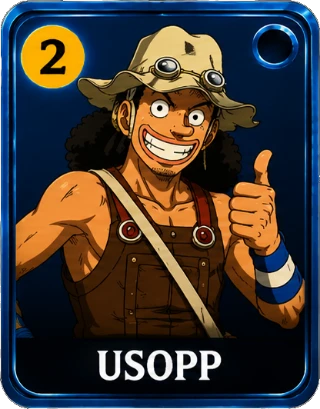
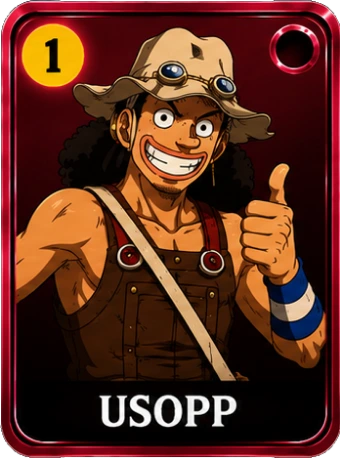
Cartas nuevas de los Mugiwara con el coste correcto
Las anteriores traian un coste inventado (Zoro ponia 2 y cuesta 4), asi que la
tienda pintaba encima una chapa dorada con el coste real. Las nuevas ya vienen
con el coste del juego y con el marco coloreado por coste, asi que se quita esa
chapa y la carta se ve tal cual.

Recortadas todas al mismo tamano (348x469, proporcion 0,742) y exportadas a
WebP: 200 KB las cinco. Se reajustan la proporcion de la tarjeta en la tienda y
el encuadre de la cara del banquillo y de la wiki al dibujo nuevo.

diff --git a/public/css/style.css b/public/css/style.css
@@ -278,7 +278,7 @@ body.in-game { height: min(var(--app-height, 100svh), 100svh); }
 
 .unit-card {
   height: 100%;
-  aspect-ratio: 406 / 532;
+  aspect-ratio: 348 / 469;
   flex: 0 1 auto;
   min-width: 0;
   border-radius: 12px;
@@ -300,9 +300,9 @@ body.in-game { height: min(var(--app-height, 100svh), 100svh); }
 .unit-card.captain, .bench-unit.captain { border-color: var(--gold); box-shadow: 0 0 0 2px rgba(255,210,63,.6), 0 4px 10px rgba(0,0,0,.3); }
 .captain-badge { position: absolute; top: 1px; right: 3px; font-size: 15px; filter: drop-shadow(0 1px 2px rgba(0,0,0,.6)); }
 
-/* ---------- Cartas ilustradas (public/img/cards/<id>.png) ---------- */
-/* El dibujo ya trae marco, nombre y un numero de coste que es solo decorativo:
-   quitamos nuestro marco y pintamos el coste real justo encima del impreso. */
+/* ---------- Cartas ilustradas (public/img/cards/<id>.webp) ---------- */
+/* El dibujo ya trae marco, nombre y el coste de la ficha, asi que la tarjeta
+   se queda solo con la imagen: sin marco ni chapa de coste encima. */
 .unit-card.has-art, .bench-unit.has-art {
   background: none;
   border: 0;
@@ -317,14 +317,6 @@ body.in-game { height: min(var(--app-height, 100svh), 100svh); }
   object-fit: contain;
   display: block;
   pointer-events: none;
-}
-.unit-card.has-art .uc-cost {
-  left: 5.2%; top: 4.6%;
-  width: 22.2%; height: 17%;
-  border-radius: 50%;
-  font-size: clamp(9px, 3.4vw, 14px);
-  border: 2px solid rgba(90,52,0,.85);
-  box-shadow: 0 1px 3px rgba(0,0,0,.6);
 }
 .unit-card.has-art.captain { box-shadow: none; }
 .unit-card.has-art.captain .uc-art { filter: drop-shadow(0 0 4px rgba(255,210,63,.85)); }
@@ -351,9 +343,18 @@ body.in-game { height: min(var(--app-height, 100svh), 100svh); }
 
 .unit-avatar-img { padding: 0; overflow: hidden; background: #0e2140; }
 .unit-avatar-img img { width: 100%; height: 100%; object-fit: cover; border-radius: 50%; pointer-events: none; }
-/* Avatar sacado de la carta ilustrada: acercamos a la cara */
-.unit-avatar-img.uc-cara { background: #1a0f08; }
-.unit-avatar-img.uc-cara img { object-position: 50% 6%; transform: scale(2); border-radius: 0; }
+/* Avatar sacado de la carta ilustrada: mismo encuadre de cara que en el
+   banquillo (deja fuera el marco, el nombre y la chapa del coste). */
+.unit-avatar-img.uc-cara { background: #1a0f08; position: relative; }
+.unit-avatar-img.uc-cara img {
+  position: absolute;
+  left: -52.5%;
+  top: -18%;
+  width: 205%;
+  height: auto;
+  object-fit: unset;
+  border-radius: 0;
+}
 
 /* Colores por tripulacion (combos) */
 .uc-crew-strawhat { background: linear-gradient(160deg, #ff7a54, #b8321a); }
@@ -389,9 +390,9 @@ body.in-game { height: min(var(--app-height, 100svh), 100svh); }
    (que es decorativo y no coincide con el coste real del juego). */
 .bench-unit.has-art .uc-art {
   position: absolute;
-  left: -57.5%;
-  top: -33%;
-  width: 215%;
+  left: -52.5%;
+  top: -18%;
+  width: 205%;
   height: auto;
   object-fit: unset;
 }

diff --git a/public/js/game.js b/public/js/game.js
@@ -523,14 +523,14 @@ import { getThumb, getThumbSync } from './thumbs.js';
   }
 
   // Contenido de una tarjeta: si el personaje tiene carta ilustrada la usamos
-  // tal cual y solo pintamos encima nuestro coste (el impreso en el dibujo es
-  // el del arte, no el del juego). Si no, la tarjeta generada de siempre.
+  // tal cual (el dibujo ya trae marco, nombre y coste). Si no, la tarjeta
+  // generada de siempre.
   function fillCard(card, p, opciones = {}) {
     if (p.card) {
       card.classList.add('has-art');
       const img = el('img', 'uc-art');
       img.src = `/${p.card}`;
-      img.alt = p.name;
+      img.alt = `${p.name} (${p.cost} de oro)`;
       img.draggable = false;
       img.onerror = () => {
         card.classList.remove('has-art');
@@ -538,7 +538,6 @@ import { getThumb, getThumbSync } from './thumbs.js';
         rellenoGenerado(card, p, opciones);
       };
       card.appendChild(img);
-      if (opciones.coste) card.appendChild(el('div', 'uc-cost', p.cost));
       return;
     }
     rellenoGenerado(card, p, opciones);

diff --git a/README.md b/README.md
@@ -201,18 +201,21 @@ descargan al abrirla.
 ### Cartas ilustradas (lo que se ve en la tienda)
 
 Lo que más manda: si existe `public/img/cards/<id>.webp` (o `.png`), la tienda
-usa **esa carta entera** —marco, ilustración y nombre incluidos—, el banquillo
-se queda con un recorte de la cara y la Wiki con un avatar redondo. Solo hay que
-dejar el archivo en la carpeta con el id del personaje en minúsculas
-(`luffy.webp`, `zoro.webp`…): el servidor mira la carpeta y lo manda en
-`/api/units`, sin tocar código.
+usa **esa carta entera** —marco, ilustración, nombre y coste incluidos—, el
+banquillo se queda con un recorte de la cara y la Wiki con un avatar redondo.
+Solo hay que dejar el archivo en la carpeta con el id del personaje en
+minúsculas (`luffy.webp`, `zoro.webp`…): el servidor mira la carpeta y lo manda
+en `/api/units`, sin tocar código.
 
-El número de coste que viene impreso en el dibujo es decorativo: encima se pinta
-el **coste real** del juego, en el mismo círculo dorado.
+Ojo: **el coste que se ve en la tienda es el impreso en el dibujo**, no se pinta
+nada encima. Si cambias el coste de un personaje en `server/characterData.js`
+hay que volver a exportar su carta; el color del marco también va por coste
+(1 rojo, 2 verde, 3 azul, 4 morado, 5 dorado).
 
-Las originales sin comprimir están en `assets-src/cards/`. Antes de subir una
-carta conviene reducirla a ~320 px de ancho y pasarla a WebP (en el juego se ve
-como mucho a 110 px), que baja de ~430 KB a ~30 KB.
+Las originales sin comprimir están en `assets-src/cards/` (`<id>.png` tal cual
+llegaron y `<id>-crop.png` ya recortadas y todas del mismo tamaño). Antes de
+subir una carta conviene reducirla a ~340 px de ancho y pasarla a WebP (en el
+juego se ve como mucho a 105 px), que baja de ~410 KB a ~35 KB.
 
 ### Retratos generados
 
